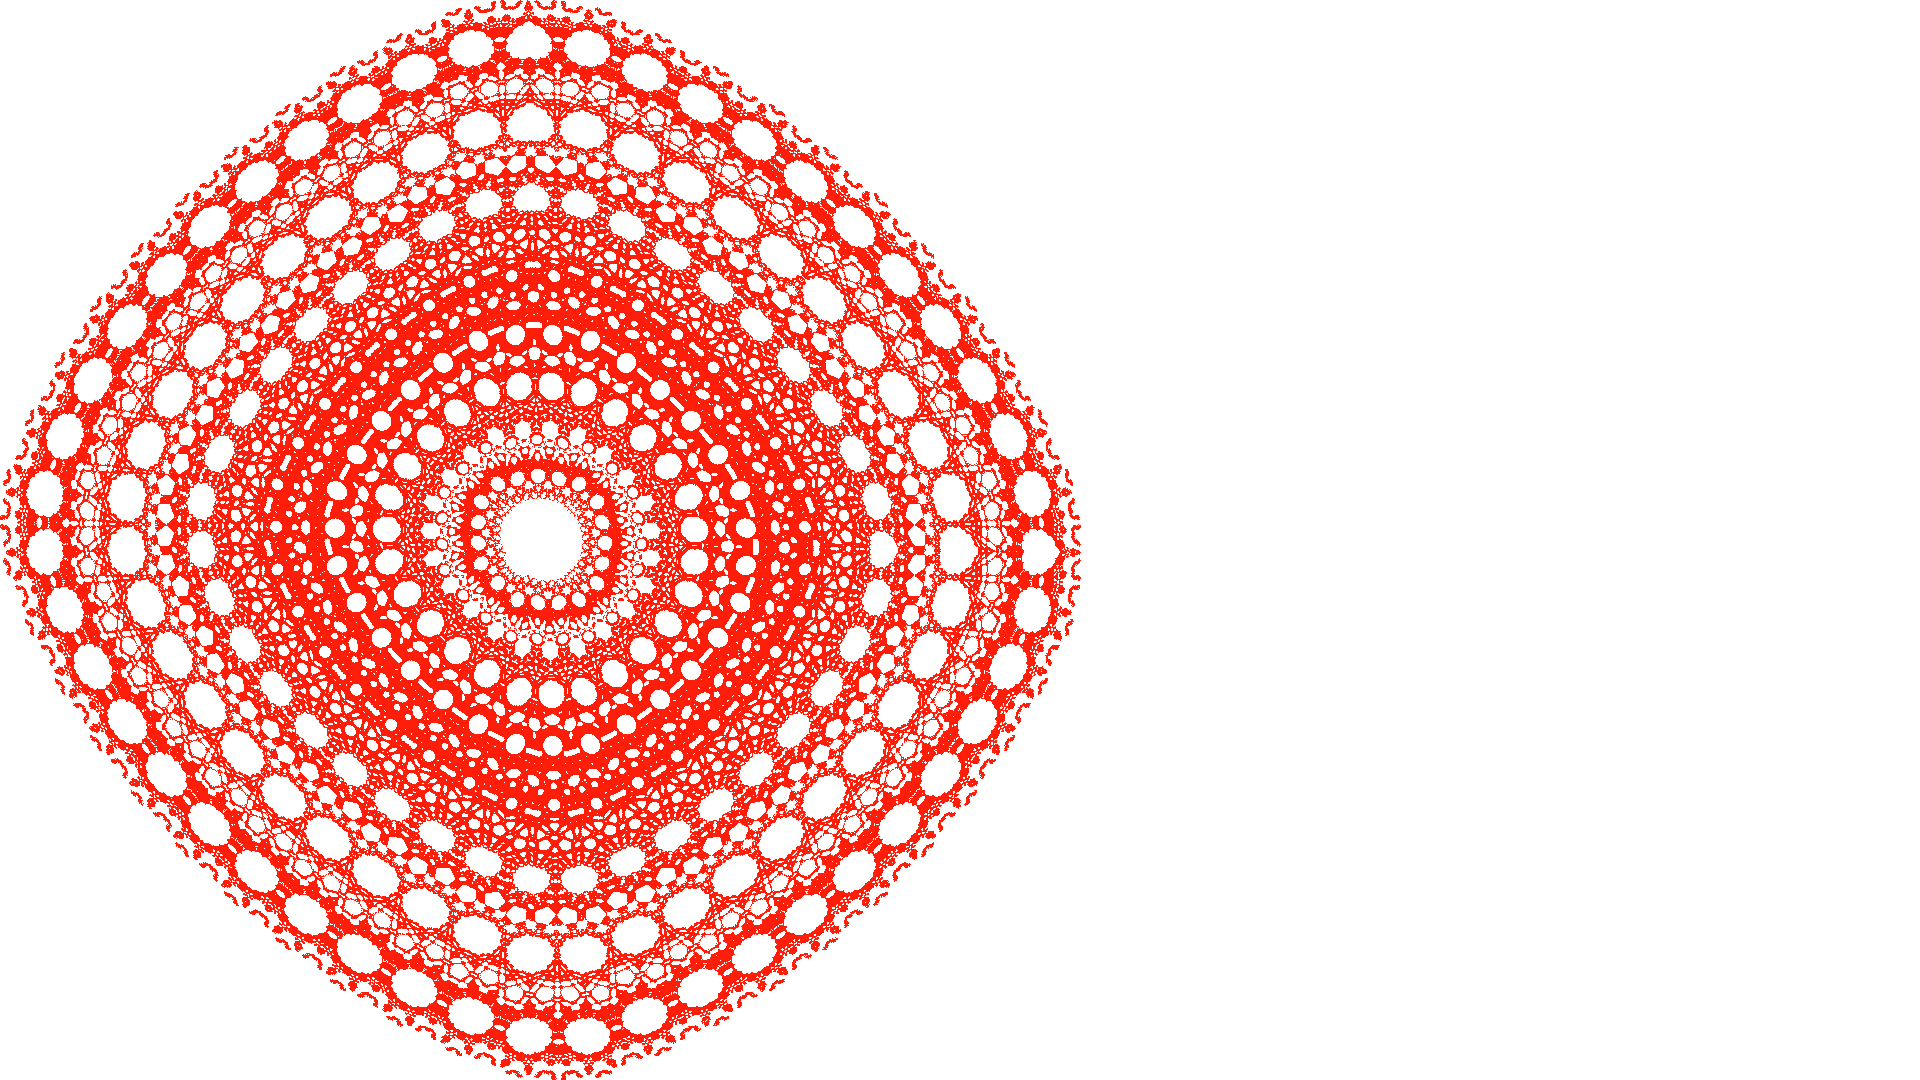
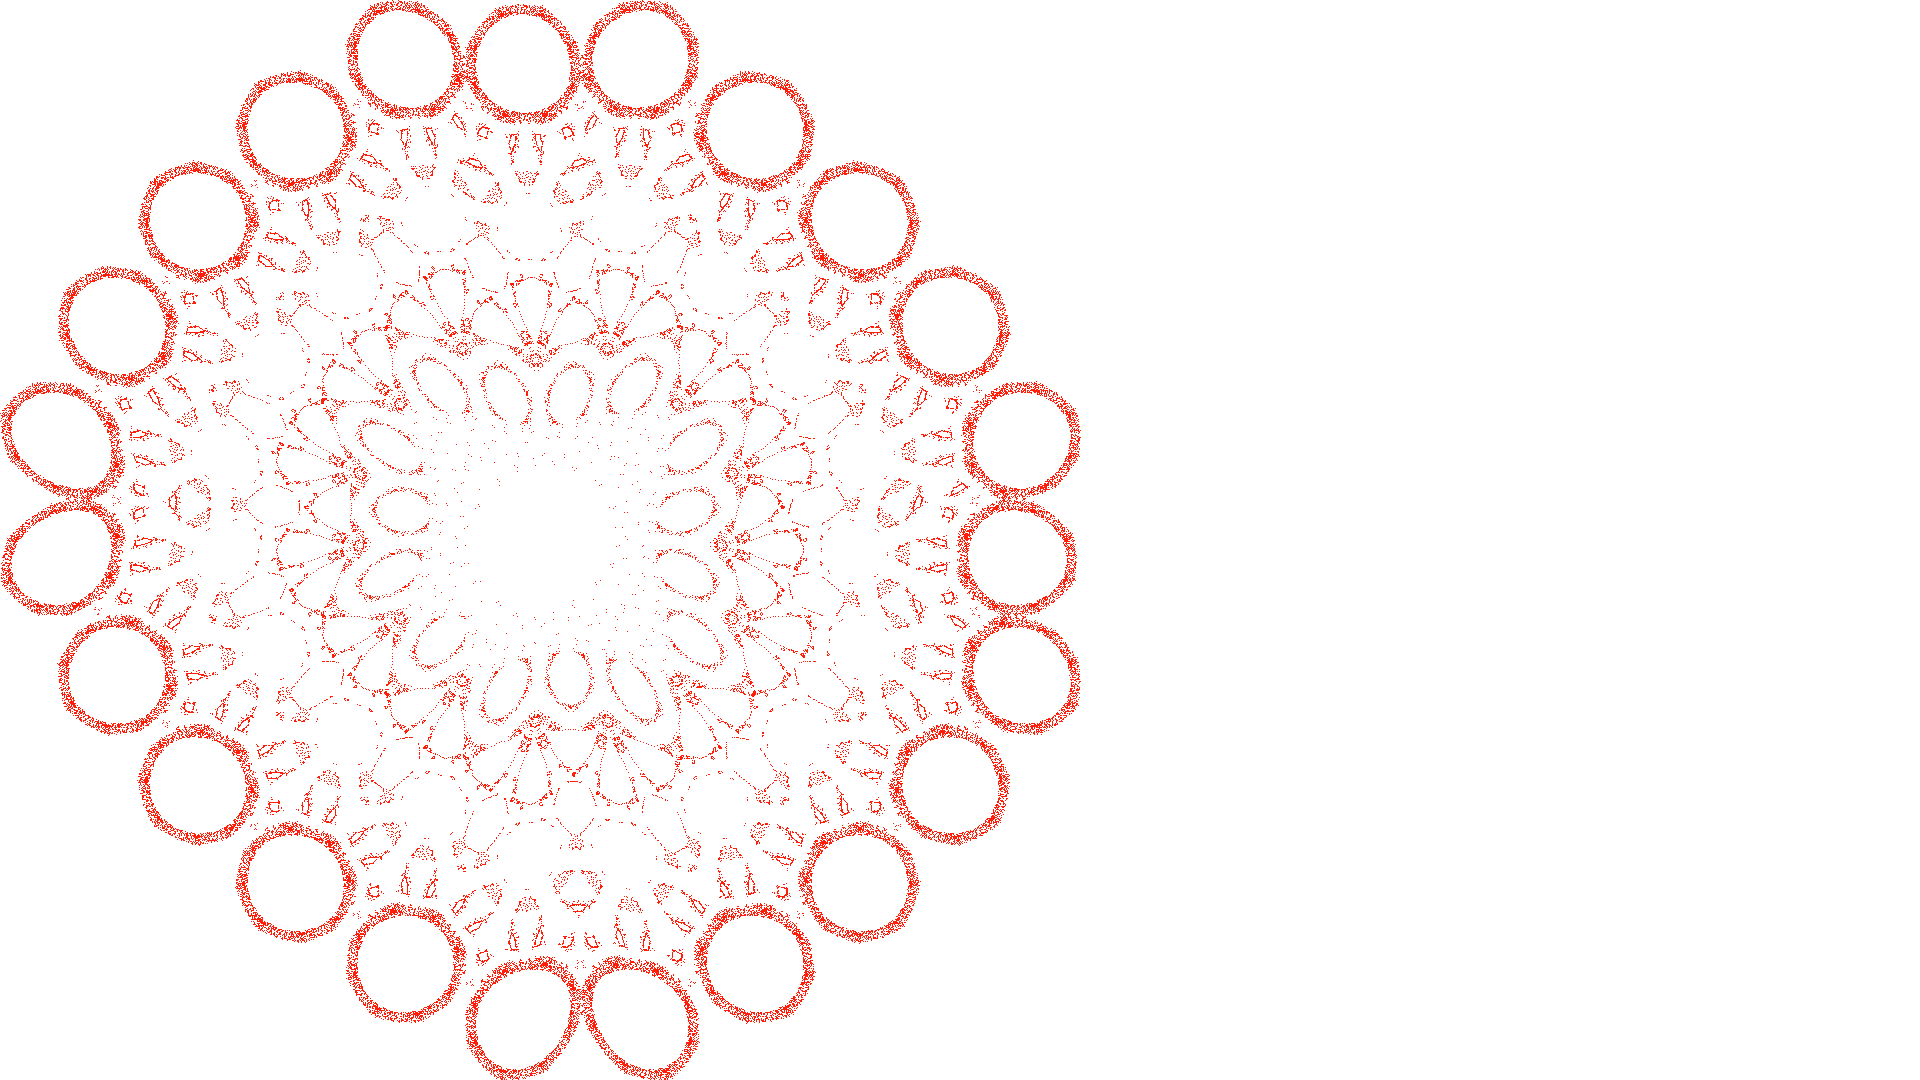
hopalong: doing only 100k px instead of 5m px looks much better

Changed region(s): [[0.0, 0.0, 0.5625, 1.0]]

diff --git a/hopalong/main.go b/hopalong/main.go
@@ -16,5 +16,5 @@ func main() {
 		log.Println("runtime:", time.Now().Sub(t))
 	}()
 
-	hopPNG(os.Stdout, 1920, 1080, 5000000)
+	hopPNG(os.Stdout, 1920, 1080, 100000)
 }
